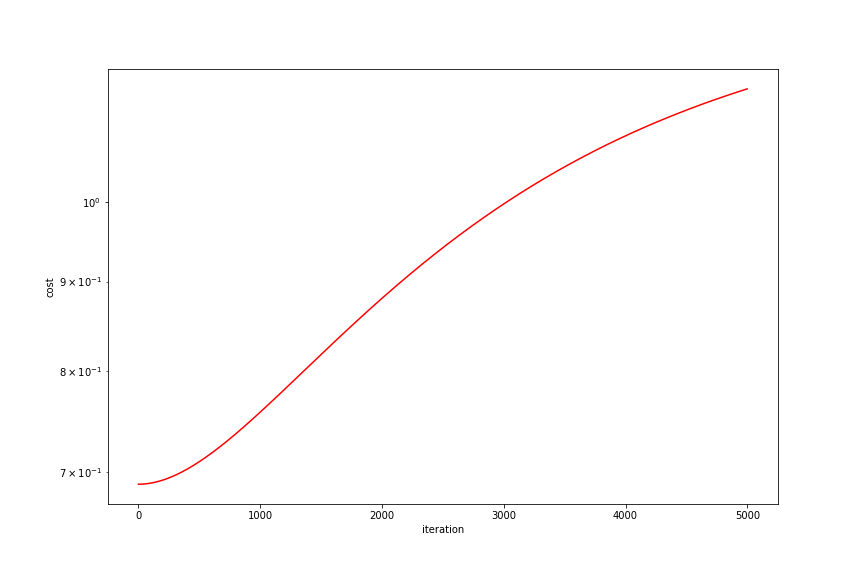
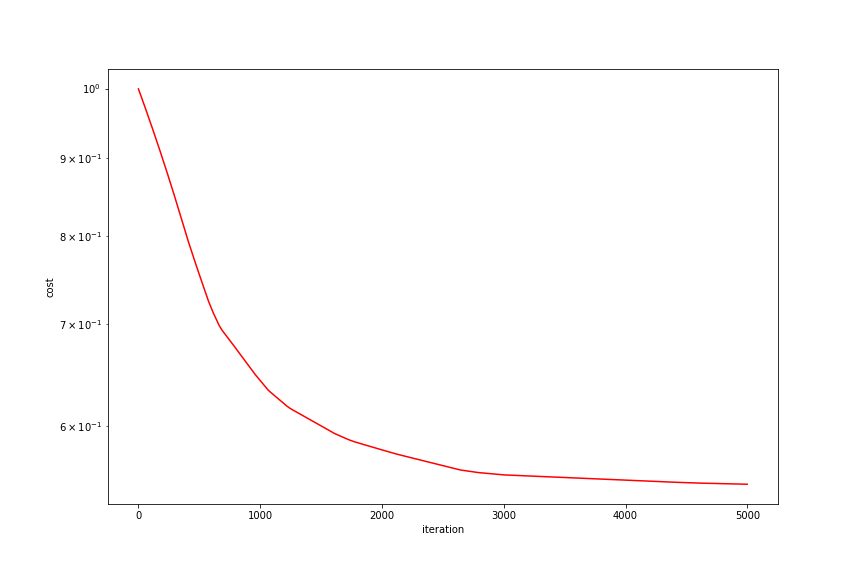
SVM completed

diff --git a/Assignment-2/svm/main.py b/Assignment-2/svm/main.py
@@ -26,10 +26,10 @@ def computeCost(X, y, theta, lambd):
   
   penalty_adjustment = np.multiply(lambd, theta.T.dot(theta))
   
-  
-  y_x_theta = np.multiply(y, predict(X, theta))
-  hinge = [ max(0 - elem, 1 - elem) for elem in y_x_theta]
- 
+  y_x_theta = np.multiply(y, X.dot(theta))
+  #hinge = [ max(0 - elem, 1 - elem) for elem in y_x_theta]
+  hinge = np.maximum(0,1 - y_x_theta)
+    
   j_theta = np.mean(hinge) + penalty_adjustment
   cost = j_theta
   return cost
@@ -40,7 +40,7 @@ def computeGradient(X,y,theta,lambd):
 
   m, n = X.shape
   
-  y_x_theta = np.multiply(y, predict(X, theta))
+  y_x_theta = np.multiply(y, X.dot(theta))
 
   # solving for indicator function
   indicator_fn = np.where(y_x_theta <= 1, 1.0, 0.0)
@@ -65,7 +65,6 @@ def gradientDescent(X, y, theta,lambd):
   for i in range(iters):
     theta = theta - alpha * computeGradient(X,y,theta,lambd)
     cost[i] = computeCost(X, y, theta,lambd)
-  print(theta)
   return theta, cost
 
 def normaliseData(x):
@@ -154,7 +153,7 @@ def main():
   # rescale training data to lie between 0 and 1
   (Xt,Xscale) = normaliseData(Xt)
   
-  lambd= 0.01
+  lambd= 0.00
 
   print('testing the prediction function ...')
   theta=np.arange(1,n+1)
